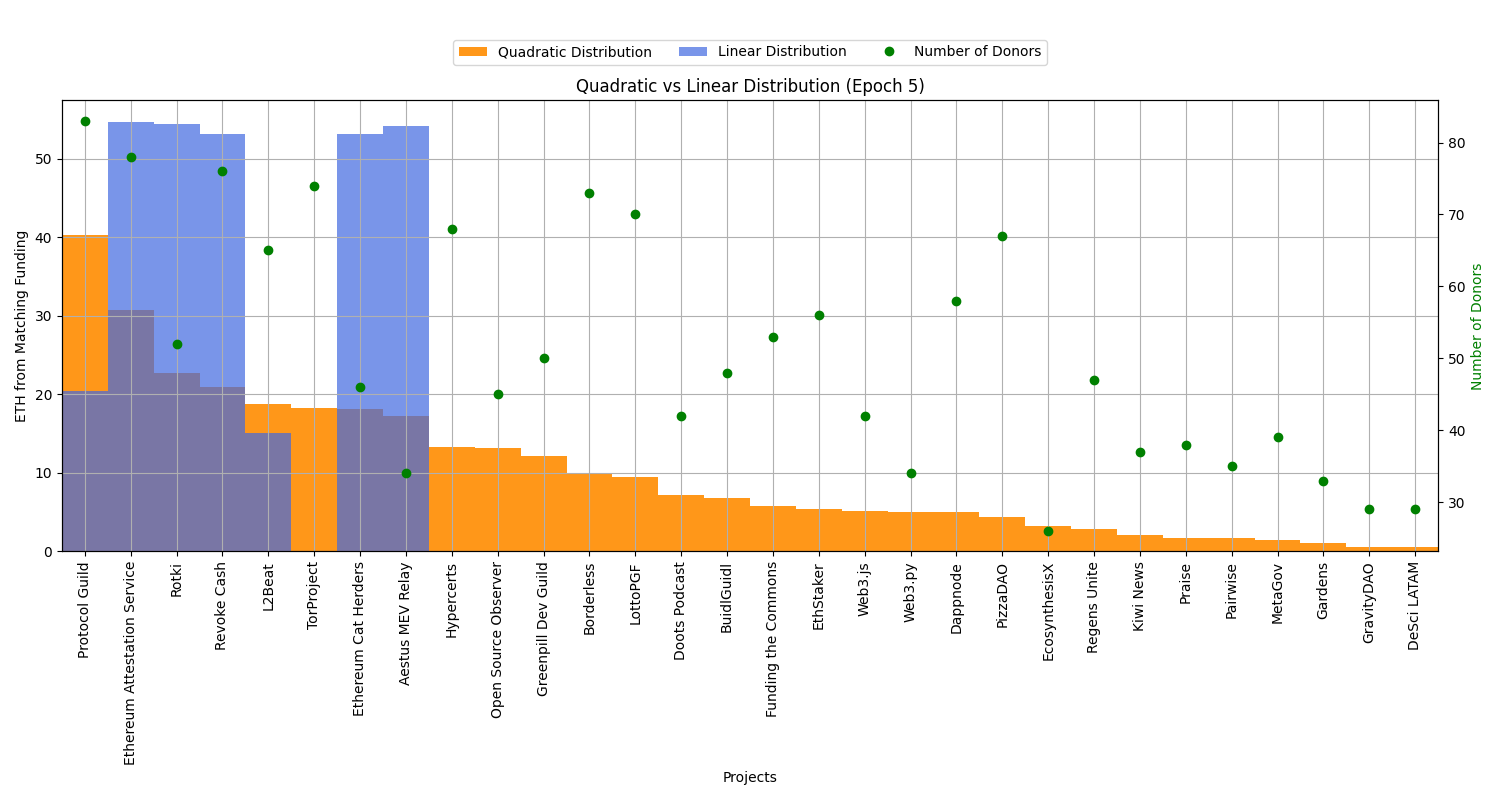
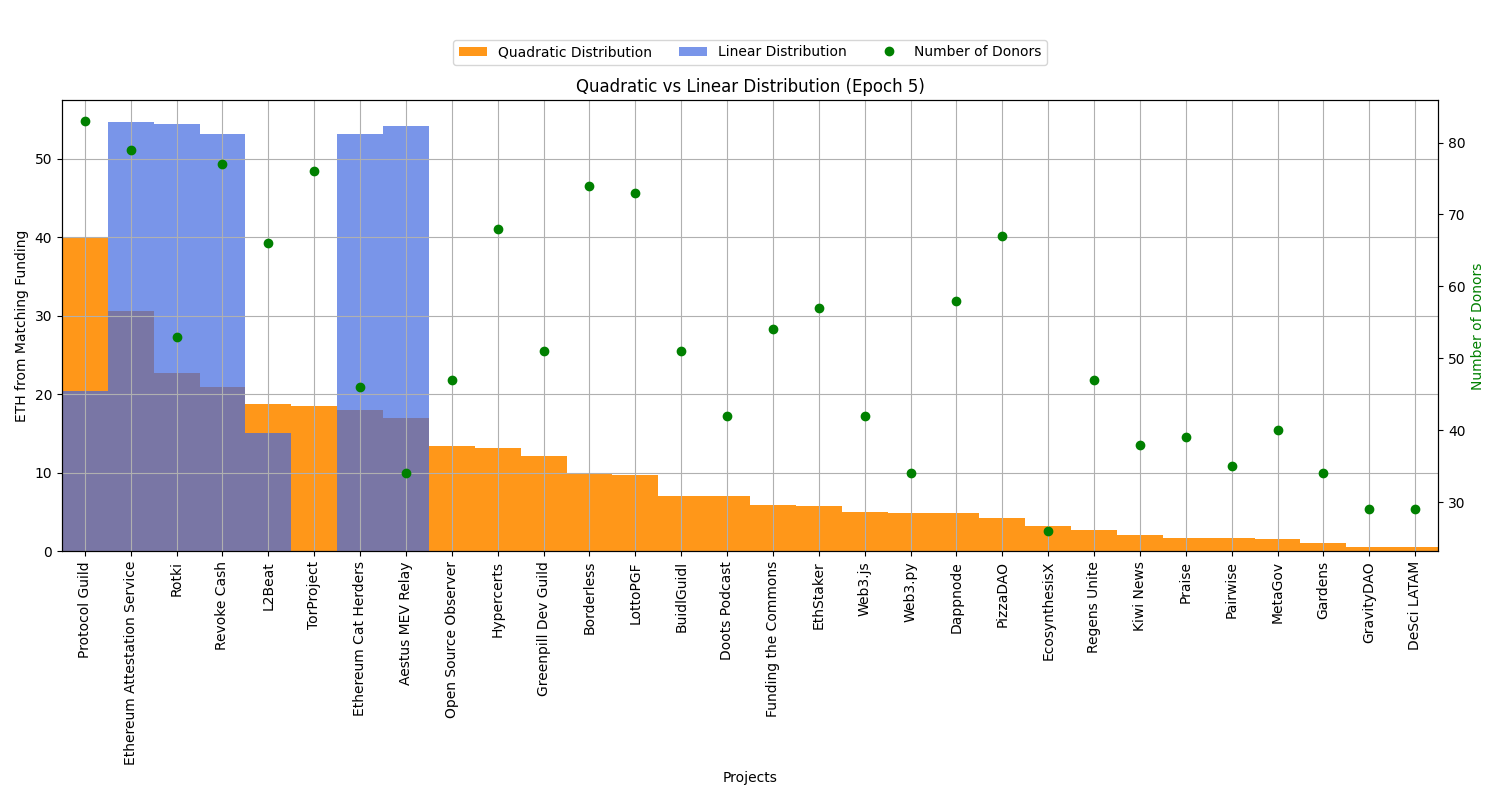
refresh + add campaign monitor

diff --git a/index.html b/index.html
@@ -34,7 +34,16 @@ layout: default
         <img src="assets/epoch_progress.png" alt="Chart Image" class="chart-image">
         <div class="chart-description">
             <h3>Daily epoch progress</h3>
-            <p>Cummulative number of new users and daily new users.
+            <p>Cummulative number of new users and daily new users. A day is defined as a 24-hour period starting at the beginning of the allocation window.
+            </p>
+        </div>
+    </div>
+
+    <div class="chart-container">
+        <img src="assets/daily_users.png" alt="Chart Image" class="chart-image">
+        <div class="chart-description">
+            <h3>New users</h3>
+            <p>Note the stable relationship between GLM campaign users and other users.
             </p>
         </div>
     </div>

diff --git a/_includes/table_users.html b/_includes/table_users.html
@@ -45,10 +45,10 @@
     <tr>
       <td>5</td>
       <td>898</td>
-      <td>339</td>
-      <td>321</td>
-      <td>172</td>
-      <td>0.378</td>
+      <td>345</td>
+      <td>327</td>
+      <td>177</td>
+      <td>0.384</td>
     </tr>
   </tbody>
 </table>

diff --git a/_includes/table_amounts.html b/_includes/table_amounts.html
@@ -45,8 +45,8 @@
     <tr>
       <td>5</td>
       <td>220.261</td>
-      <td>200.356</td>
-      <td>16.092</td>
+      <td>200.360</td>
+      <td>16.096</td>
       <td>0.090</td>
       <td>0.080</td>
     </tr>

diff --git a/_includes/current_datetime.html b/_includes/current_datetime.html
@@ -7,6 +7,6 @@
     <title>Current Date and Time</title>
 </head>
 <body>
-    <p>Last update: 2024-10-22 13:42:50</p>
+    <p>Last update: 2024-10-22 18:13:53</p>
 </body>
 </html>
